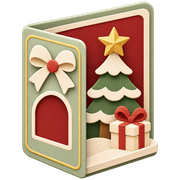
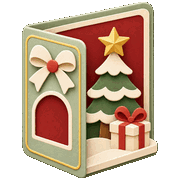
perf: lighter images and long-lived caching for static assets
- Stickers PNG -> WebP (12 MB -> 2.7 MB, same 1024px); cutout.py now writes WebP
- Brand mark/logo resized to their display size as WebP (1.2 MB -> 6 KB)
- Favicons shrunk (icon.png 325 KB -> 12 KB)
- public/_headers: hashed /_next/static immutable for a year, /assets/*
  cached a day with stale-while-revalidate

diff --git a/src/components/home/Gallery.tsx b/src/components/home/Gallery.tsx
@@ -63,9 +63,9 @@ export function Gallery() {
       <header className="pointer-events-none absolute left-5 top-4 z-10">
         <h1 className="flex items-center gap-2">
           {/* Brand mark: the little christmas-house gift box, cut out on transparent. */}
-          <img src="/assets/brand/mark.png" alt="" className="h-10 w-auto" />
+          <img src="/assets/brand/mark.webp" alt="" className="h-10 w-auto" />
           {/* Cursive lettering with holly and snowflake accents. */}
-          <img src="/assets/brand/logo.png" alt="Christmas Cards" className="h-8 w-auto" />
+          <img src="/assets/brand/logo.webp" alt="Christmas Cards" className="h-8 w-auto" />
         </h1>
       </header>
 

diff --git a/src/lib/reliefCore.test.ts b/src/lib/reliefCore.test.ts
@@ -66,7 +66,7 @@ describe("bakeSurfacePixels with a sticker mask", () => {
 });
 
 describe("parseStickerManifest", () => {
-  const good = { set: "winter", stickers: [{ id: "holly", label: "冬青", material: "paint", src: "/assets/stickers/winter/holly.png" }] };
+  const good = { set: "winter", stickers: [{ id: "holly", label: "冬青", material: "paint", src: "/assets/stickers/winter/holly.webp" }] };
 
   it("accepts the generated manifest", () => {
     expect(parseStickerManifest(good).stickers[0].id).toBe("holly");

diff --git a/scripts/stickers/cutout.py b/scripts/stickers/cutout.py
@@ -1,7 +1,7 @@
-"""Sticker intake: raw generated images -> clean transparent PNGs + manifest.
+"""Sticker intake: raw generated images -> clean transparent WebPs + manifest.
 
 Reads   assets-src/stickers/<set>/*.png   (raw images straight from the image model)
-Writes  public/assets/stickers/<set>/*.png (1024x1024 RGBA, subject centred)
+Writes  public/assets/stickers/<set>/*.webp (1024x1024 RGBA, subject centred)
         public/assets/stickers/<set>/manifest.json
 
 Image models often fake transparency (a painted checkerboard) or use a dark or
@@ -189,12 +189,12 @@ def main() -> int:
             continue
         label, material, mode = CATALOGUE[sid]
         try:
-            process(src, mode).save(out_dir / f"{sid}.png", optimize=True)
+            process(src, mode).save(out_dir / f"{sid}.webp", quality=90, alpha_quality=100, method=6)
         except (OSError, ValueError) as err:
             print(f"failed {src.name}: {err}", file=sys.stderr)
             continue
-        entries.append({"id": sid, "label": label, "material": material, "src": f"/assets/stickers/{sticker_set}/{sid}.png"})
-        print(f"ok   {src.name} -> {sid}.png ({material}, {mode})")
+        entries.append({"id": sid, "label": label, "material": material, "src": f"/assets/stickers/{sticker_set}/{sid}.webp"})
+        print(f"ok   {src.name} -> {sid}.webp ({material}, {mode})")
 
     order = list(CATALOGUE)
     entries.sort(key=lambda e: order.index(e["id"]))
